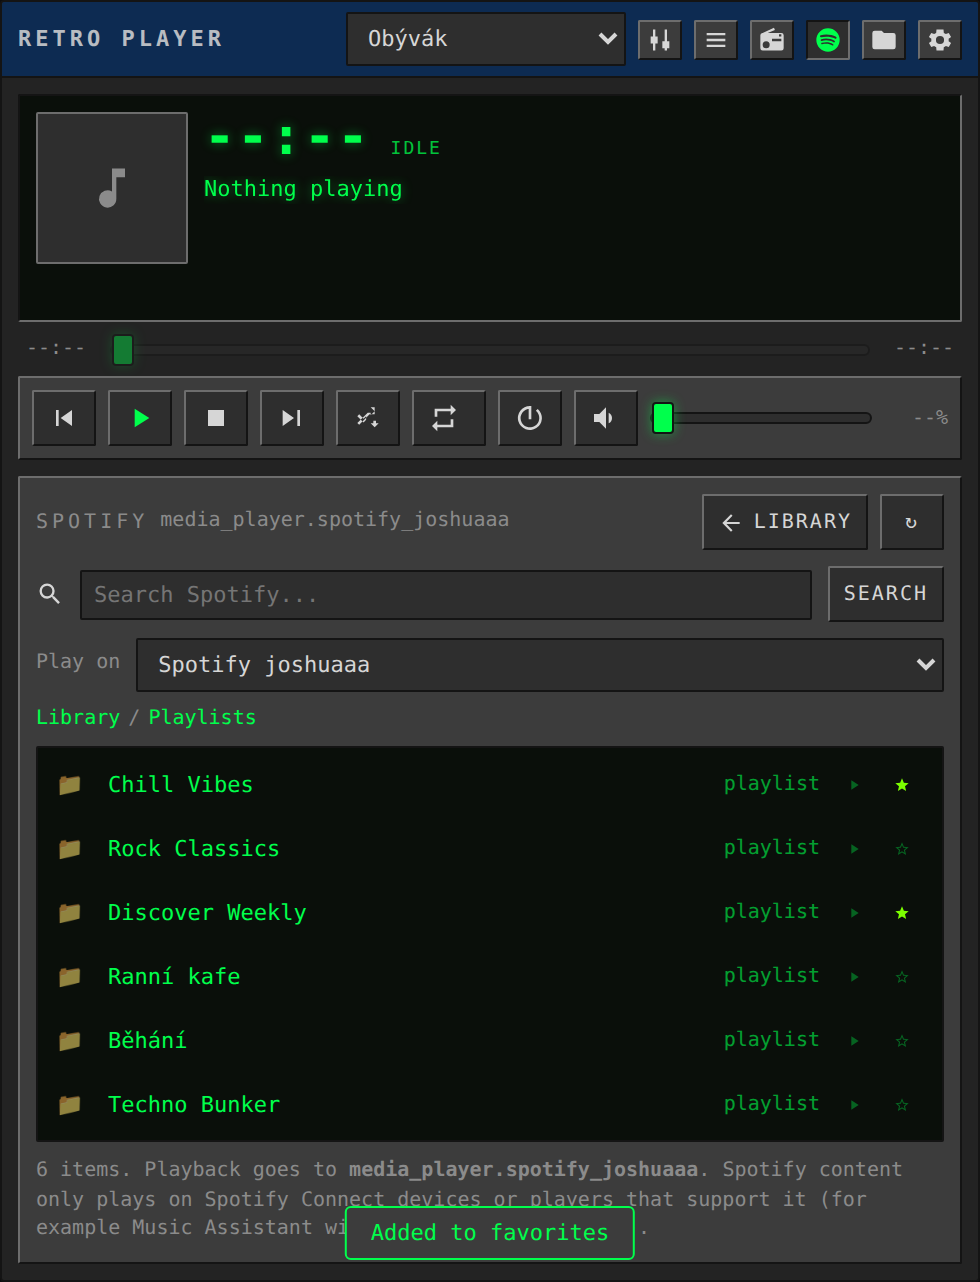
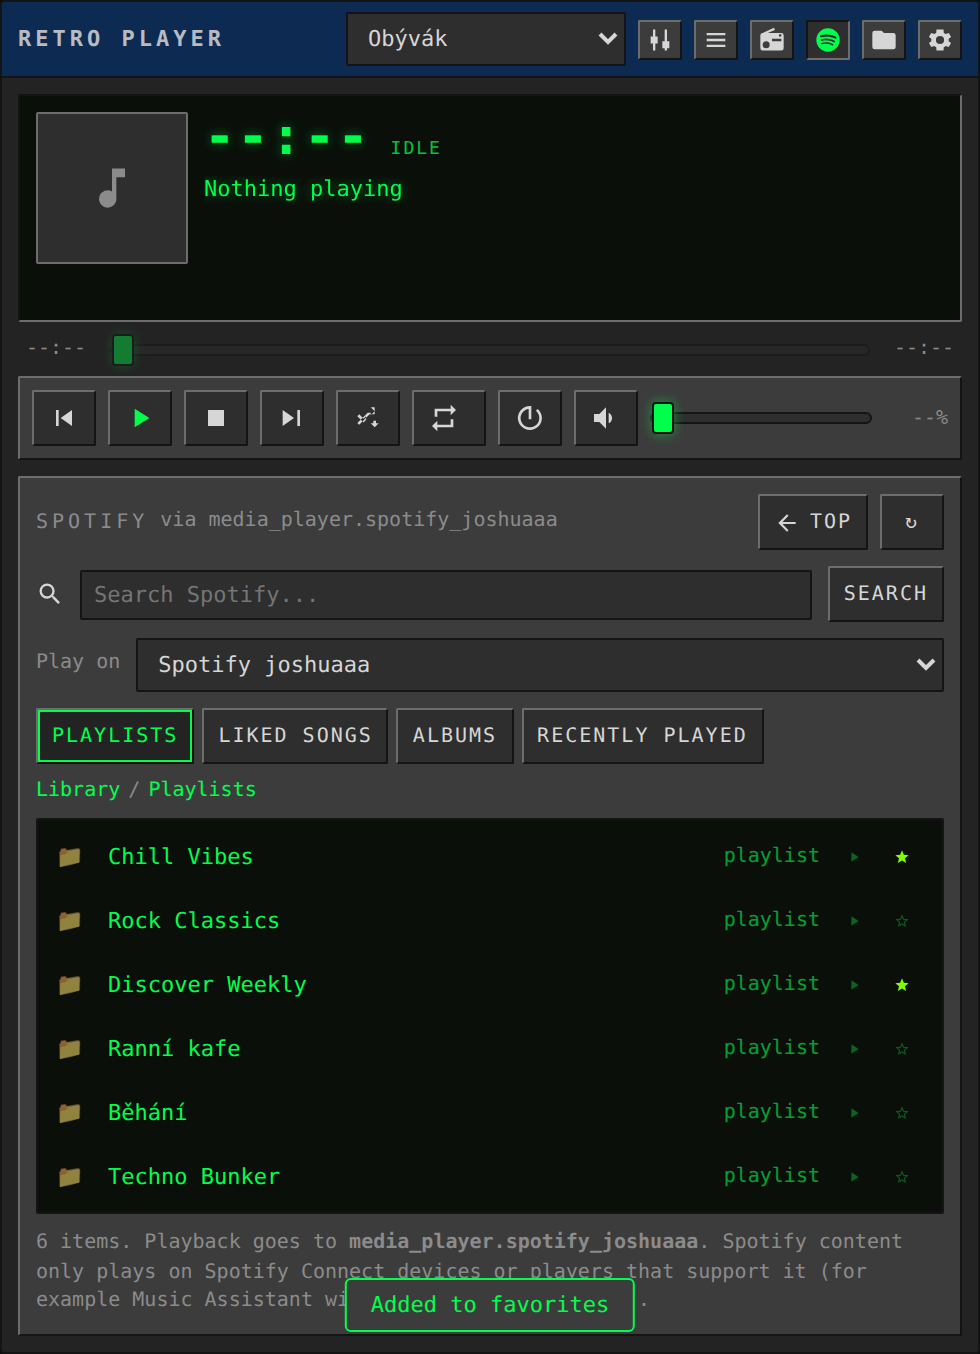
Make Spotify search reliable and add library shortcuts
Search could hang and could come back empty:

- callWS never settles when Home Assistant does not answer, so the panel sat
  on "Searching..." indefinitely. Every browse and search now races a 15s
  timeout and reports what happened.
- Concurrent searches were unordered, so a slow earlier query could land last
  and replace fresh results. Each request now carries a sequence number and
  only the newest one may touch the DOM.
- Some integrations return nothing unless the wanted media classes are named,
  so an empty result is retried once with media_filter_classes. The retry is
  guarded because older Home Assistant rejects that field.
- Empty and failed searches now say which entity was asked and what to do,
  instead of rendering a bare "Nothing here".

Verified the websocket contract against Home Assistant's source: search_query
and media_filter_classes are the correct field names, media_content_type and
media_content_id are inclusive so both are omitted, and the filter values used
are valid MediaClass members.

Adds a shortcut row above the listing, built from whatever the browse entity
exposes at the library root, so saved playlists and liked songs are one click
away instead of several levels deep. The active shortcut is highlighted and
the row stays visible while browsing deeper.

Claude-Session: https://claude.ai/code/session_01XGjxWiSwq2rWFVf6r1CzhA

diff --git a/dist/ha-retro-player-card.js b/dist/ha-retro-player-card.js
@@ -6,7 +6,7 @@
  * No build step required - this file is the source.
  */
 
-const CARD_VERSION = "1.2.1";
+const CARD_VERSION = "1.3.0";
 
 /* ------------------------------------------------------------------ *
  * Constants
@@ -1030,7 +1030,7 @@ class RetroPlayerCard extends HTMLElement {
     this._browseLoading = false;
     this._rootSources = null;
     this._rbServer = null;
-    this._sp = { path: [], items: null, query: "", searched: false, dived: false };
+    this._sp = { path: [], items: null, query: "", searched: false, dived: false, homeItems: null, homePath: [] };
     this._rb = {
       view: "countries",
       country: null,
@@ -1965,6 +1965,20 @@ class RetroPlayerCard extends HTMLElement {
     return this._spotifySource();
   }
 
+  /**
+   * callWS never rejects when Home Assistant simply does not answer, which
+   * left the panel sitting on "Searching..." forever. Always race a timeout.
+   */
+  _ws(msg, ms = 15000) {
+    let timer;
+    return Promise.race([
+      this._hass.callWS(msg),
+      new Promise((_, reject) => {
+        timer = setTimeout(() => reject(new Error(`no answer after ${ms / 1000}s`)), ms);
+      }),
+    ]).finally(() => clearTimeout(timer));
+  }
+
   _canBrowse(id) {
     const st = id && this._hass.states[id];
     return !!st && ((st.attributes.supported_features || 0) & SUPPORT.BROWSE_MEDIA) !== 0;
@@ -2028,6 +2042,7 @@ class RetroPlayerCard extends HTMLElement {
         <span class="hint">Play on</span>
         <select class="sp-target" style="flex:1 1 auto"></select>
       </div>
+      <div class="chips sp-quick"></div>
       <div class="crumbs sp-crumbs"></div>
       <div class="list sp-list"><div class="empty">Loading...</div></div>
       <div class="hint sp-hint"></div>
@@ -2069,6 +2084,39 @@ class RetroPlayerCard extends HTMLElement {
     this._spLoad(el);
   }
 
+  /**
+   * One-click shortcuts into the library root: playlists, liked songs, albums
+   * and whatever else the browse entity offers there.
+   */
+  _spQuick(el) {
+    const sp = this._sp;
+    const host = el.querySelector(".sp-quick");
+    if (!host) return;
+    const items = sp.homeItems || [];
+    const here = sp.path.map((p) => p.id).join(">");
+    host.innerHTML = items
+      .map((c, i) => {
+        const path = [...sp.homePath, { id: c.media_content_id }].map((p) => p.id).join(">");
+        const on = !sp.searched && here === path;
+        return `<button class="btn spq" data-i="${i}" aria-pressed="${on}">${esc(c.title)}</button>`;
+      })
+      .join("");
+    host.querySelectorAll(".spq").forEach((b) =>
+      b.addEventListener("click", () => {
+        const c = items[Number(b.dataset.i)];
+        sp.path = [
+          ...sp.homePath,
+          { id: c.media_content_id, type: c.media_content_type, title: c.title },
+        ];
+        sp.query = "";
+        sp.searched = false;
+        const q = el.querySelector(".sp-q");
+        if (q) q.value = "";
+        this._spLoad(el);
+      }),
+    );
+  }
+
   _spCrumbs(el) {
     const sp = this._sp;
     const c = el.querySelector(".sp-crumbs");
@@ -2101,12 +2149,14 @@ class RetroPlayerCard extends HTMLElement {
     list.innerHTML = `<div class="empty">Loading...</div>`;
     const cur = sp.path[sp.path.length - 1];
     try {
-      const res = await this._hass.callWS({
+      const seq = (this._spSeq = (this._spSeq || 0) + 1);
+      const res = await this._ws({
         type: "media_player/browse_media",
         entity_id: via,
         media_content_id: cur ? cur.id : "",
         media_content_type: cur ? cur.type || "" : "",
       });
+      if (seq !== this._spSeq) return;
       sp.items = (res && res.children) || [];
 
       // When browsing through a proxy player (Music Assistant), drop straight
@@ -2124,6 +2174,13 @@ class RetroPlayerCard extends HTMLElement {
         }
       }
       sp.dived = true;
+
+      // The first listing we land on is the library root - keep its folders as
+      // one-click shortcuts (Playlists, Liked Songs, Albums, ...).
+      if (!sp.homeItems) {
+        sp.homeItems = sp.items.filter((c) => c.can_expand);
+        sp.homePath = sp.path.slice();
+      }
       this._spRenderList(el);
     } catch (err) {
       console.error("[retro-player-card] spotify browse failed", err);
@@ -2157,22 +2214,61 @@ class RetroPlayerCard extends HTMLElement {
     const sp = this._sp;
     const query = sp.query.trim();
     if (!query) return this._toast("Type something to search for first");
+    const via = this._spBrowseEntity();
+    if (!via) return this._spNoBrowser(el);
     const list = el.querySelector(".sp-list");
-    list.innerHTML = `<div class="empty">Searching Spotify for "${esc(query)}"...</div>`;
-    try {
-      const res = await this._hass.callWS({
+
+    // Only the newest search may touch the DOM - a slow earlier one used to
+    // land afterwards and replace fresh results with stale ones.
+    const seq = (this._spSeq = (this._spSeq || 0) + 1);
+    const stale = () => seq !== this._spSeq;
+    list.innerHTML = `<div class="empty">Searching for "${esc(query)}"...</div>`;
+
+    const ask = (extra) =>
+      this._ws({
         type: "media_player/search_media",
-        entity_id: this._spBrowseEntity(),
+        entity_id: via,
         search_query: query,
+        ...extra,
       });
-      sp.items = (res && res.result) || [];
-      sp.searched = true;
-      this._spRenderList(el);
+
+    let res;
+    try {
+      res = await ask();
+      // Some integrations return nothing unless the wanted classes are named.
+      if (!stale() && !((res && res.result) || []).length) {
+        try {
+          const retry = await ask({
+            media_filter_classes: ["album", "artist", "playlist", "track", "music"],
+          });
+          if (((retry && retry.result) || []).length) res = retry;
+        } catch (e) {
+          /* older Home Assistant rejects the filter - keep the first answer */
+        }
+      }
     } catch (err) {
+      if (stale()) return;
       console.warn("[retro-player-card] spotify search failed", err);
+      const why = (err && (err.message || err.error)) || "unknown error";
+      list.innerHTML = `<div class="empty">
+        Search failed on <b>${esc(via)}</b>.<br />
+        <span class="sub">${esc(why)}</span><br /><br />
+        <span class="sub">The Spotify integration does not implement search at all;
+        a Music Assistant player does. Pick one under "Browse via" in settings,
+        or browse the shortcuts above instead.</span></div>`;
       sp.searched = false;
-      this._spRenderList(el);
-      this._toast("This player cannot search - filtering the current list instead");
+      return;
+    }
+
+    if (stale()) return;
+    const rows = (res && res.result) || [];
+    sp.items = rows;
+    sp.searched = true;
+    this._spRenderList(el);
+    if (!rows.length) {
+      list.innerHTML = `<div class="empty">Nothing found for "${esc(query)}"
+        on <b>${esc(via)}</b>.<br />
+        <span class="sub">Try fewer words, or browse the shortcuts above.</span></div>`;
     }
   }
 
@@ -2182,6 +2278,7 @@ class RetroPlayerCard extends HTMLElement {
     const hint = el.querySelector(".sp-hint");
     if (!list) return;
     this._spCrumbs(el);
+    this._spQuick(el);
     const q = sp.searched ? "" : sp.query.trim().toLowerCase();
     const rows = (sp.items || []).filter((c) => !q || (c.title || "").toLowerCase().includes(q));
 
@@ -3063,12 +3160,12 @@ class RetroPlayerCard extends HTMLElement {
     }
     on(".s-sp-src", "change", (e) => {
       set.spotifyEntity = e.target.value || null;
-      this._sp = { path: [], items: null, query: "", searched: false, dived: false };
+      this._sp = { path: [], items: null, query: "", searched: false, dived: false, homeItems: null, homePath: [] };
       persist(false);
     });
     on(".s-sp-via", "change", (e) => {
       set.spotifyBrowseEntity = e.target.value || null;
-      this._sp = { path: [], items: null, query: "", searched: false, dived: false };
+      this._sp = { path: [], items: null, query: "", searched: false, dived: false, homeItems: null, homePath: [] };
       persist(false);
     });
     on(".s-sp-tgt", "change", (e) => {

diff --git a/README.md b/README.md
@@ -197,12 +197,17 @@ zvládne kdykoliv. V hlavičce panelu je vidět `via <entita>`.
 Když přes Music Assistant, karta při prvním otevření rovnou skočí do jeho
 Spotify větve. Tlačítkem *Top* se dostaneš na skutečný kořen.
 
-- **Procházení knihovny** — playlisty, Made For You, naposledy přehrané, alba…
-  s drobečkovou navigací
+- **Zkratky knihovny** — nad seznamem je řádek tlačítek generovaný z toho, co
+  daná entita v kořeni nabízí: **Playlists**, **Liked Songs**, **Albums**,
+  Recently Played… Jedním klikem se dostaneš na uložené playlisty i na oblíbené
+  skladby, aktivní zkratka je zvýrazněná
+- **Procházení knihovny** s drobečkovou navigací
 - **Hledání** — tlačítko *Search* pošle dotaz do Home Assistantu
   (`media_player/search_media`) přes tutéž entitu. Samotná Spotify integrace
-  hledání **neimplementuje vůbec**, Music Assistant ano; když to entita neumí,
-  karta bez chyby přepne na filtrování aktuálního seznamu
+  hledání **neimplementuje vůbec**, Music Assistant ano. Když dotaz nic nevrátí,
+  karta ho zopakuje s `media_filter_classes` (některé integrace bez toho vrací
+  prázdno). Každý dotaz má 15s časový limit a pomalá starší odpověď už nikdy
+  nepřepíše novější výsledky
 - **Play on** — rozbalovací seznam určuje, kam se hudba pošle. Výchozí je
   samotná Spotify entita
 - **Hvězdičky** fungují stejně jako u rádií — barevná = uloženo
@@ -352,7 +357,7 @@ HACS stažený soubor **neaktualizuje sám**. Po nové verzi:
 2. V prohlížeči tvrdý refresh (**Ctrl+Shift+R**), na mobilu smaž cache
 
 Jestli běží nová verze poznáš v prohlížeči médií (📁) — vlevo nahoře je verze
-karty a entita, na které právě prohlížíš. Aktuální je **v1.2.1**.
+karty a entita, na které právě prohlížíš. Aktuální je **v1.3.0**.
 
 ---
 
